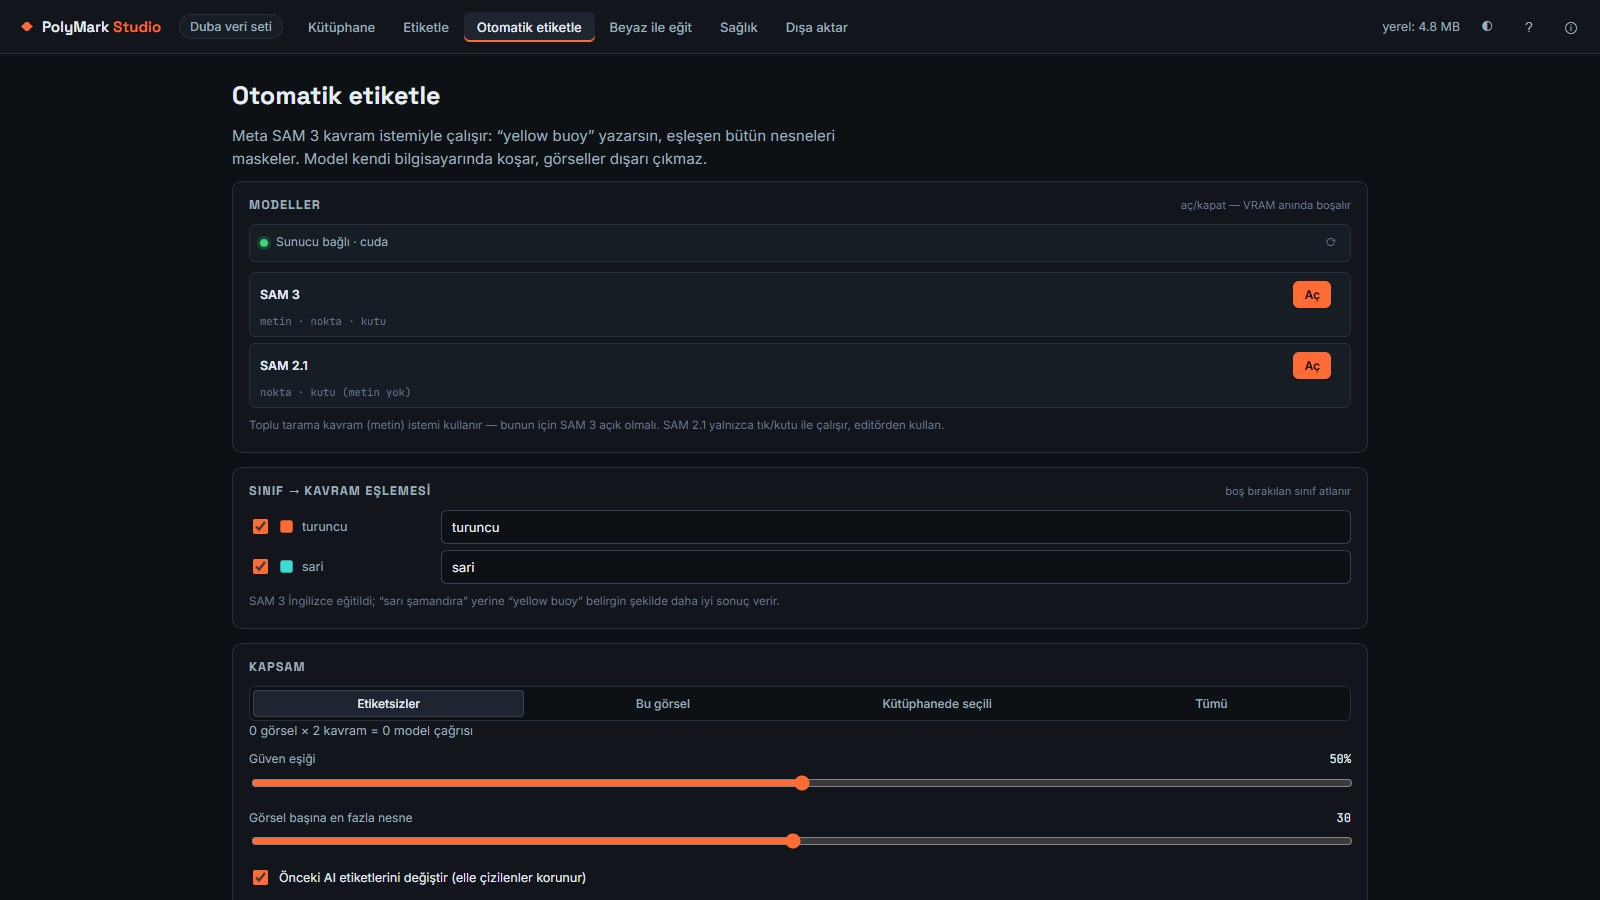
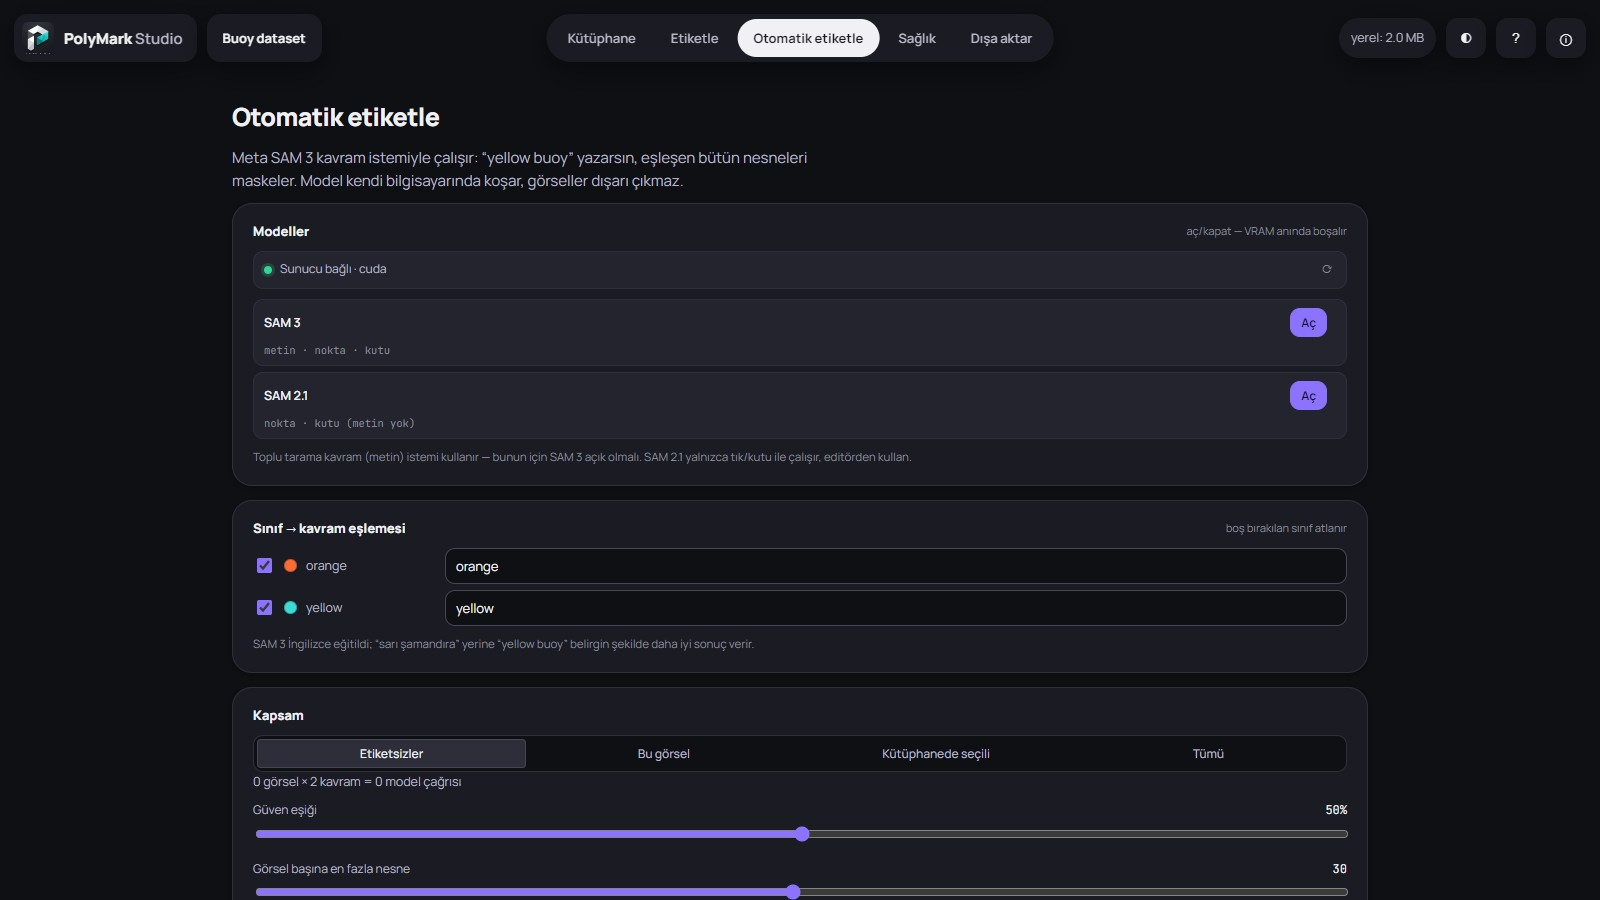
Showcase: new interface screenshots and release notes

diff --git a/README.md b/README.md
@@ -6,7 +6,10 @@ images never leave the computer.
 
 > This repository is a project showcase. The software is not distributed publicly.
 
-![Labeling view](docs/labeling.jpg)
+**Current version: 1.1** — new "floating canvas" interface and one-click export to Beyaz Studio.
+See [release notes](#release-notes).
+
+![Labeling view, dark theme](docs/labeling.jpg)
 
 *Demo dataset of buoy photos.*
 
@@ -20,8 +23,10 @@ images never leave the computer.
   by the same matrix, so labels never drift.
 - **9 export formats:** YOLOv8-11 segmentation and detection, COCO segmentation and detection, Pascal VOC,
   Apple CreateML, TensorFlow CSV, semantic mask PNG, and a full native backup.
-- **Train with Beyaz.** Train the author's own from-scratch detector on the labeled images, then let it pre-label
-  new images.
+- **Send to Beyaz Studio.** The first export option writes the labeled set straight into Beyaz Studio, the
+  author's own from-scratch detector, where it shows up ready to train. Boxes and polygons are both kept.
+- **Floating canvas interface.** The image fills the whole window; classes, SAM controls, labels and the film strip
+  float on top as cards and the image is fitted between them. Light and dark themes.
 
 ![Text-prompt auto-labeling](docs/auto-labeling.jpg)
 
@@ -41,10 +46,29 @@ images never leave the computer.
 | SAM 3 | 2.7 GB | ~0.4 s per text prompt once warm |
 | Both loaded | 3.2 GB total | — |
 
-- **Desktop app:** a C# launcher serves the UI, starts the bundled engine without a console window and keeps
-  training running in the tray when the window is closed.
+- **Beyaz export:** files go through the local engine into Beyaz Studio's data folder. The class list is written
+  last, so a half-finished export never appears in Beyaz Studio, and a failed export is cleaned up. Without the
+  engine, the same layout is downloaded as a ZIP.
+- **Desktop app:** a C# launcher serves the UI and starts the bundled engine without a console window.
 
 ![Export formats](docs/export.jpg)
+
+![Labeling view, light theme](docs/labeling-light.jpg)
+
+## Release notes
+
+### 1.1 (November 2026)
+- New "floating canvas" interface: the canvas fills the window and the toolbars, class list, SAM panel and film
+  strip float as cards around the image. New color tokens and the Manrope typeface; on narrow windows the cards
+  return to a normal layout.
+- The image is refitted when the window is resized, unless you have zoomed in yourself.
+- **Export > Beyaz Studio** (new default format) replaces the old "Train with Beyaz" tab: one click sends the
+  dataset to Beyaz Studio, which picks it up live.
+- New logo, favicon and app icons.
+
+### 1.0 (October 2026)
+- First desktop release: SAM 2.1 click labeling, SAM 3 text-prompt auto-labeling, augmentation, 9 export formats
+  and the bundled local AI engine.
 
 ## Author
 
